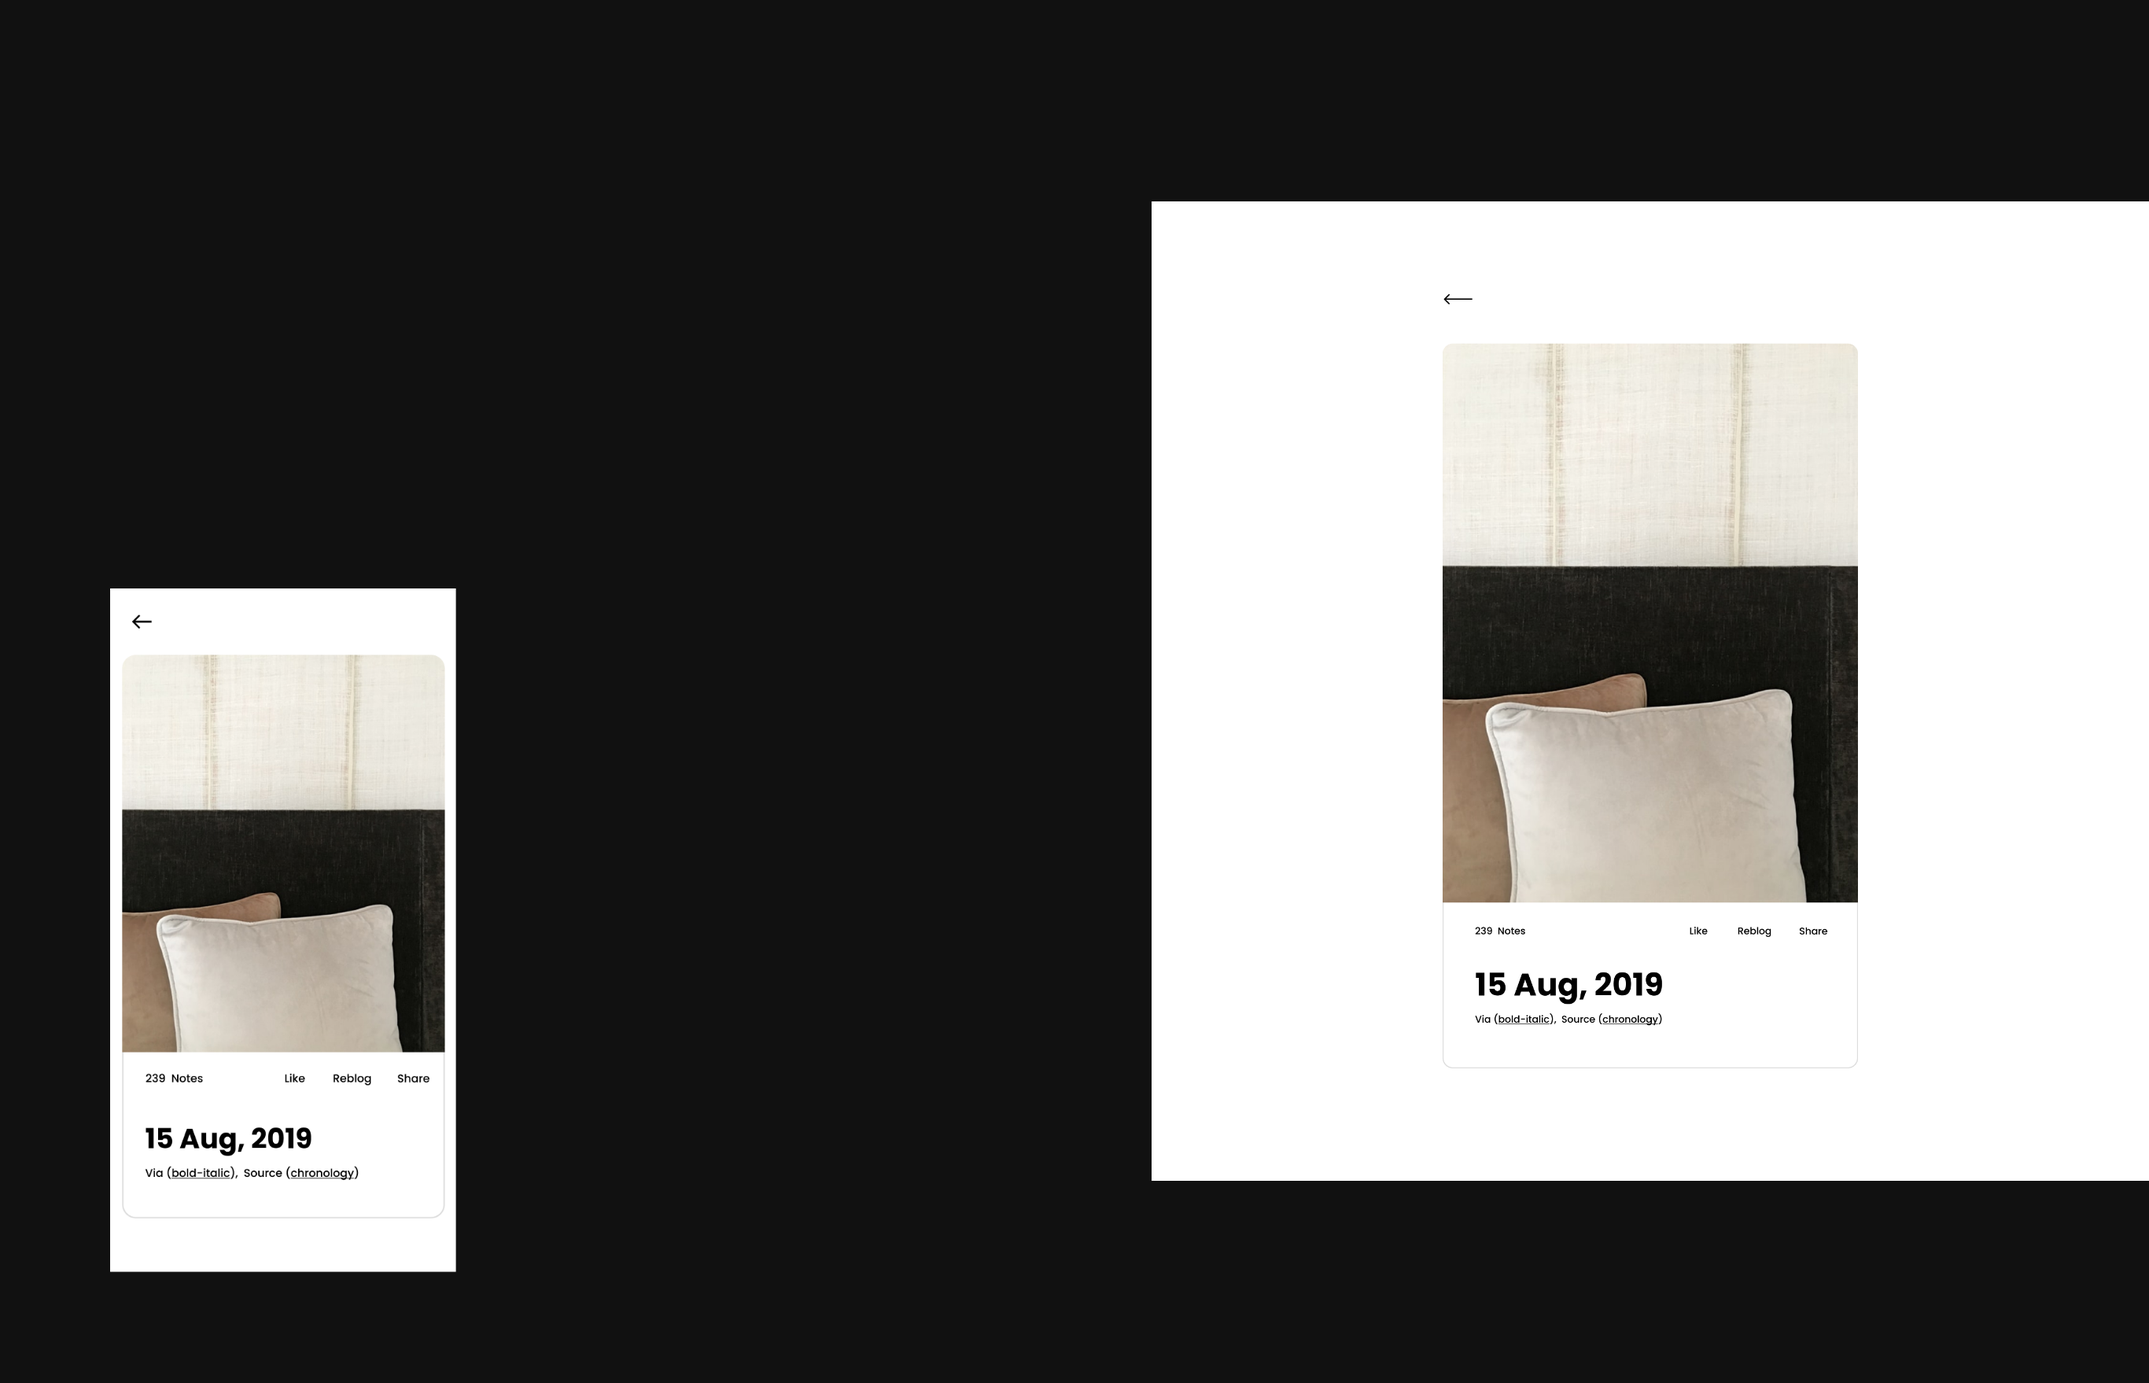
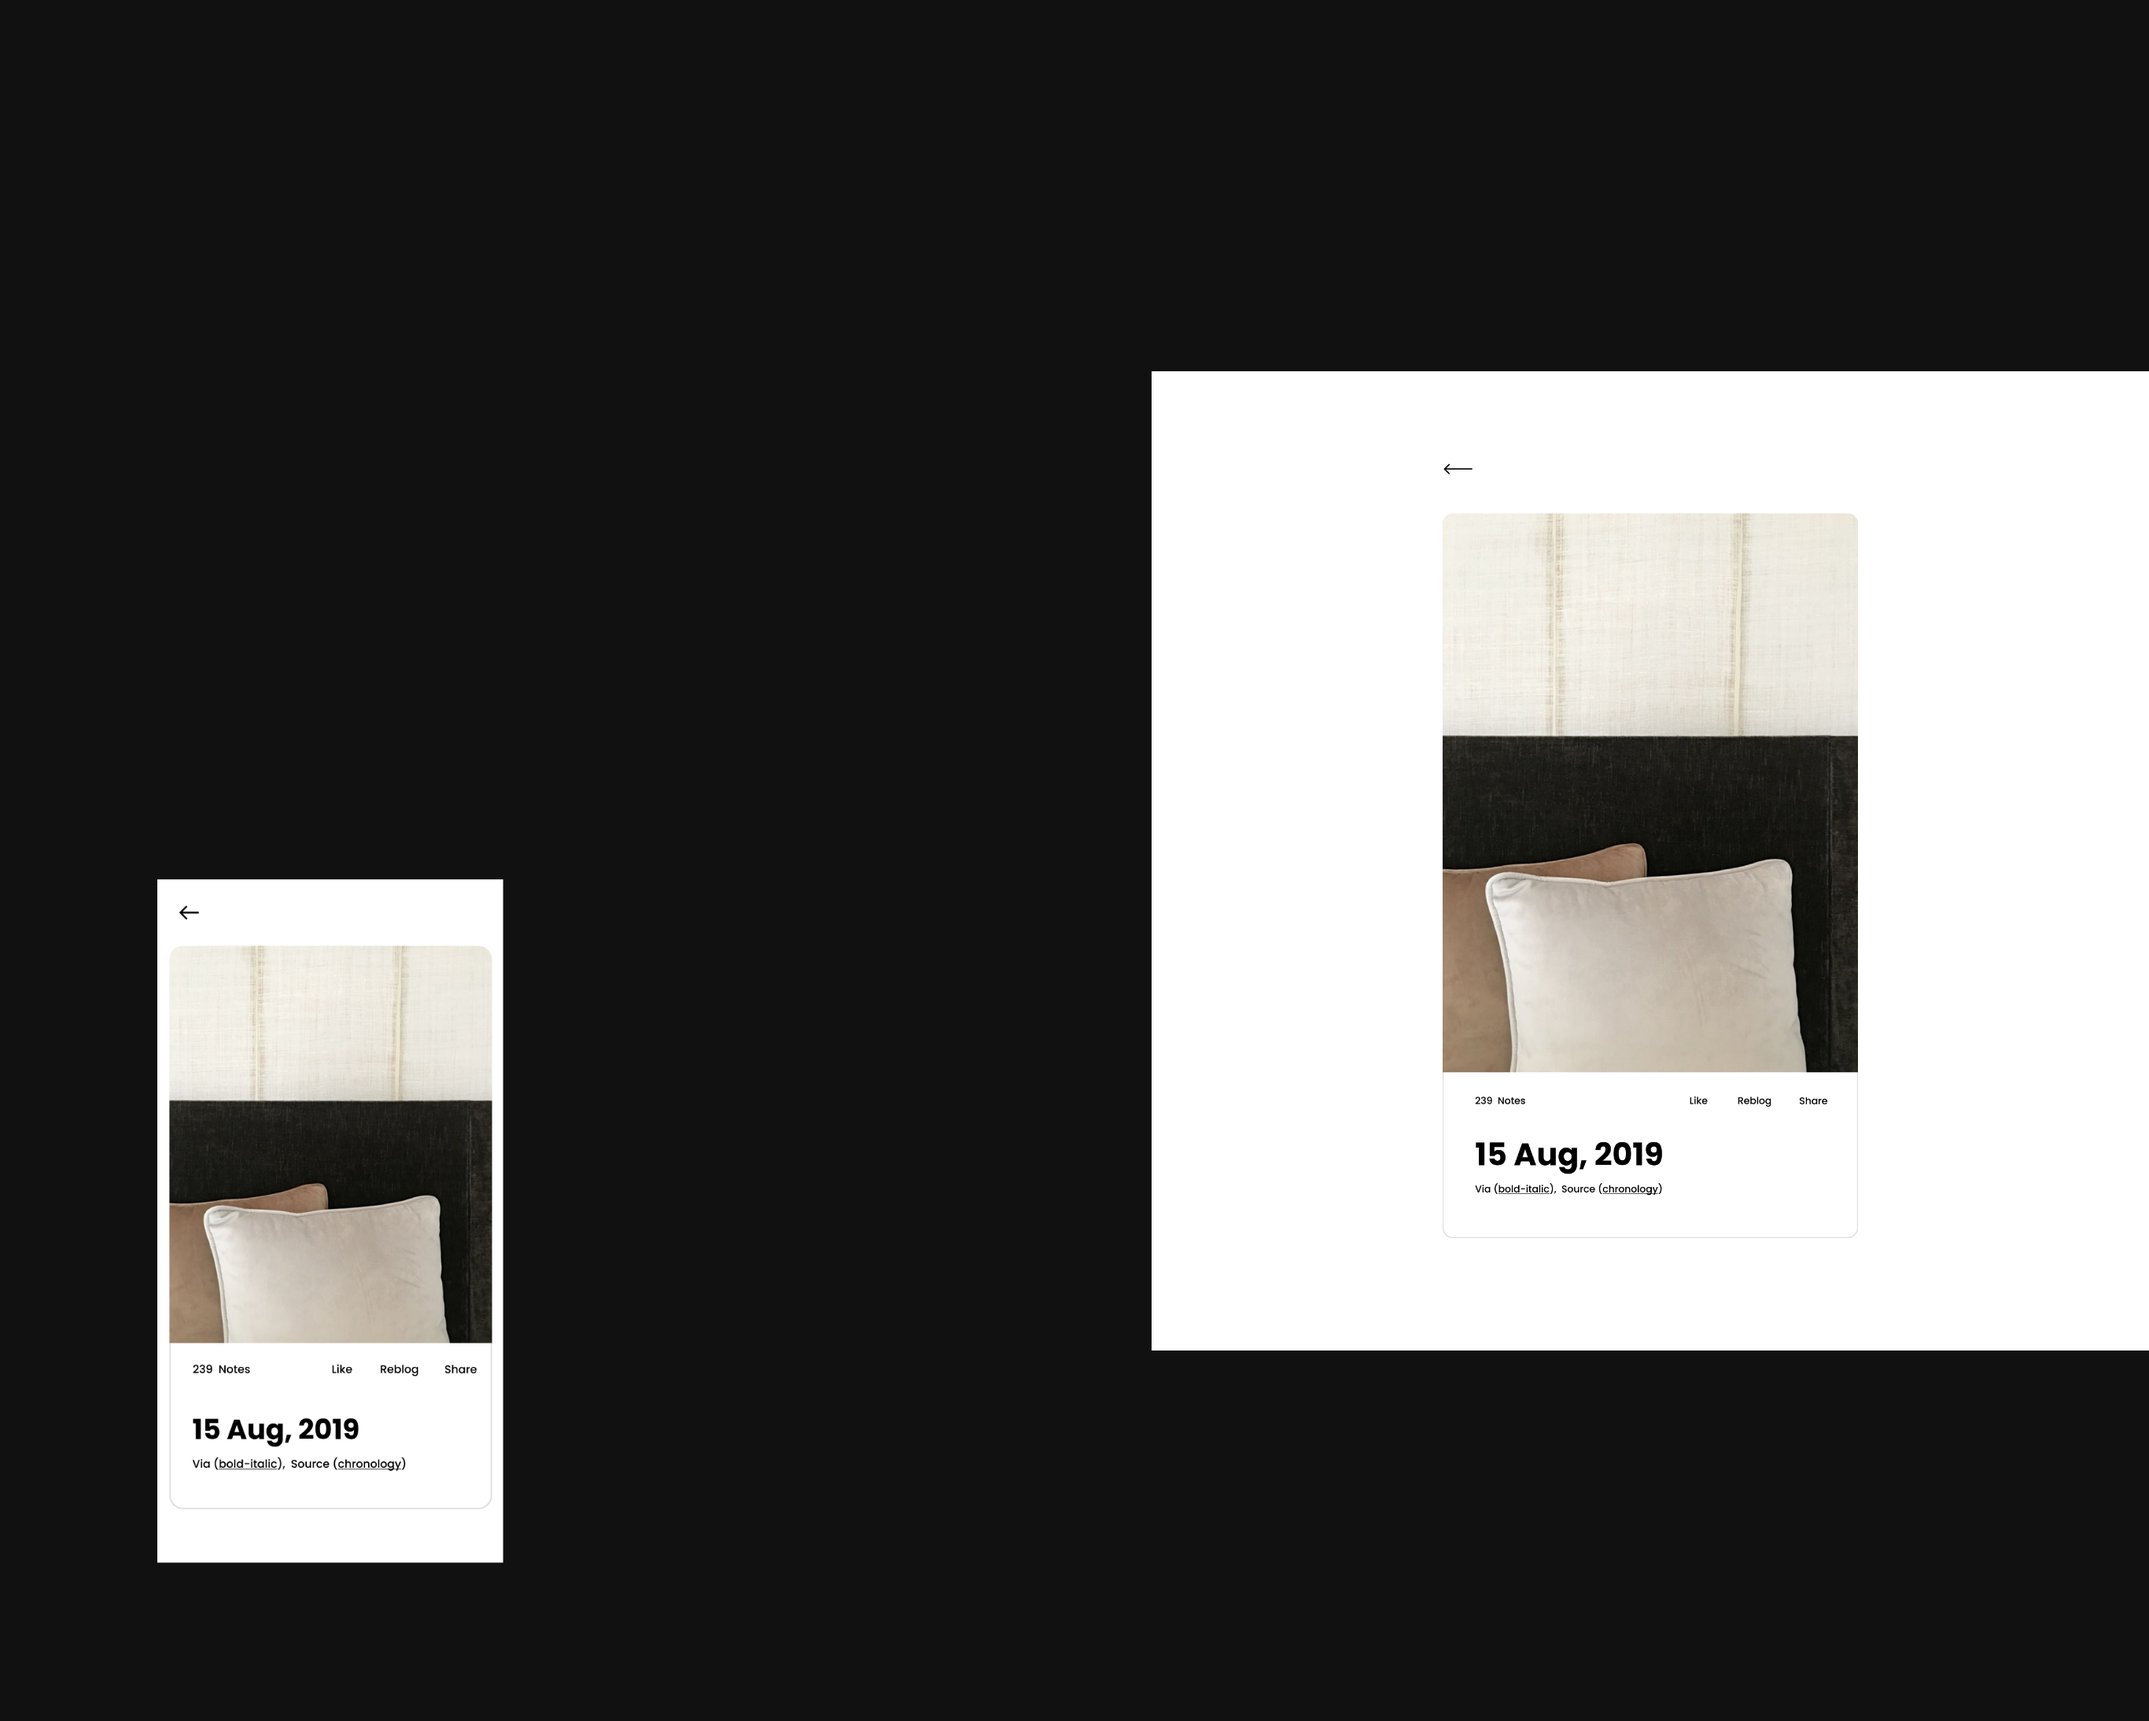
added post-3 and mobile ui

diff --git a/src/pages/portfolio/{markdownRemark.frontmatter__slug}.jsx b/src/pages/portfolio/{markdownRemark.frontmatter__slug}.jsx
@@ -32,15 +32,29 @@ export default function BlogPostTemplate({
           {/* <p className="serif text-[28px] text-[#CDDE91] font-light pb-[50px] font-bold uppercase">
             {frontmatter.title}
           </p> */}
-          <p className="monospace text-[12px] uppercase">About The Project</p>
-          <p className="text-[28px] font-light pt-[30px]">
-            {frontmatter.description}
+          <p className="text-[28px] font-light">{frontmatter.description}</p>
+
+          {/* Roles */}
+          <p className="monospace mt-[40px] mb-[10px] text-[#CDDE91] text-[11px] uppercase">
+            Contributions
           </p>
-          <p className="mt-[40px] text-[12px] uppercase">
-            {frontmatter.involvements.map((item) => (
-              <a key={item.role} className="mr-[16px]">
+          <p className=" text-[12px] uppercase">
+            {frontmatter.contributions.map((item) => (
+              <b key={item.role} className="mr-[16px]">
                 {item.role}
-              </a>
+              </b>
+            ))}
+          </p>
+
+          {/* Tools */}
+          <p className="monospace mt-[40px] mb-[10px] text-[#CDDE91] text-[11px] uppercase">
+            Tools and technologies
+          </p>
+          <p className=" text-[12px] uppercase">
+            {frontmatter.technologies.map((item) => (
+              <b key={item.tool} className="mr-[16px]">
+                {item.tool}
+              </b>
             ))}
           </p>
         </div>
@@ -54,9 +68,9 @@ export default function BlogPostTemplate({
       </span>
 
       {/* Screenshots */}
-      <div className="bg-white text-black rounded-t-[40px] pt-[100px]">
+      <div className="text-black rounded-t-[40px] py-[0px] lg:py-[50px]">
         {frontmatter.featuredImages.map((item) => (
-          <img src={item.image.publicURL} />
+          <img id="shot" src={item.image.publicURL} />
         ))}
       </div>
 
@@ -74,8 +88,11 @@ export const pageQuery = graphql`
         slug
         title
         description
-        involvements {
+        contributions {
           role
+        }
+        technologies {
+          tool
         }
         featuredImages {
           image {

diff --git a/src/pages/home.js b/src/pages/home.js
@@ -28,11 +28,11 @@ const HomePage = () => {
         {/* Portfolio One */}
         <Link to="/portfolio/one">
           <div className="grid lg:grid-cols-2 border-y border-[#bbb] lg:px-[100px] px-[40px] hover:bg-gradient-to-r from-white to-[#CDDE90]">
-            <p className="flex text-[40px] uppercase py-[70px]">
+            <p className="flex text-[30px] lg:text-[40px] uppercase py-[50px] lg:py-[70px]">
               <b>Daily UI</b>
               <i className="serif ml-[10px] mt-[-2.5px]">Challenges</i>
             </p>
-            <p className="flex items-center justify-end monospace text-[12px] font-bold uppercase">
+            <p className="hidden lg:block flex items-center justify-end monospace text-[12px] font-bold uppercase">
               Read more ➚
             </p>
           </div>
@@ -40,10 +40,22 @@ const HomePage = () => {
         {/* Portfolio Two */}
         <Link to="/portfolio/two">
           <div className="grid lg:grid-cols-2 border-y border-[#bbb] lg:px-[100px] px-[40px] hover:bg-gradient-to-r from-white to-[#CDDE90]">
-            <p className="flex text-[40px] uppercase py-[70px]">
+            <p className="flex text-[30px] lg:text-[40px] uppercase py-[50px] lg:py-[70px]">
               <b>Beige</b>
             </p>
-            <p className="flex items-center justify-end monospace text-[12px] font-bold uppercase">
+            <p className="hidden lg:block flex items-center justify-end monospace text-[12px] font-bold uppercase">
+              Read more ➚
+            </p>
+          </div>
+        </Link>
+        {/* Portfolio Three */}
+        <Link to="/portfolio/three">
+          <div className="grid lg:grid-cols-2 border-y border-[#bbb] lg:px-[100px] px-[40px] hover:bg-gradient-to-r from-white to-[#CDDE90]">
+            <p className="flex text-[30px] lg:text-[40px] uppercase py-[50px] lg:py-[70px]">
+              <b>Boxy</b>
+              <i className="serif ml-[10px] mt-[-2.5px]">Shapes</i>
+            </p>
+            <p className="hidden lg:block flex items-center justify-end monospace text-[12px] font-bold uppercase">
               Read more ➚
             </p>
           </div>

diff --git a/src/pages/about.js b/src/pages/about.js
@@ -78,7 +78,7 @@ const AboutPage = () => {
         </p>
         {/* Skill 1 */}
         <div className="grid lg:grid-cols-12 border-y-2 py-[50px]">
-          <p className="flex col-span-8 text-[30px] py-[50px] font-semibold">
+          <p className="flex col-span-8 text-[30px] pb-[20px] lg:py-[50px] font-semibold">
             Front End Development
           </p>
           <p className="flex col-span-4 items-center justify-end text-[16px] leading-[24px]">

diff --git a/src/styles/global.css b/src/styles/global.css
@@ -23,3 +23,7 @@ body {
 a:hover {
   text-decoration: underline;
 }
+
+#shot:nth-child(1) {
+  border-radius: 50px 50px 0px 0px;
+}

diff --git a/src/content/post-2.md b/src/content/post-2.md
@@ -4,8 +4,13 @@ date: "2022-11-24"
 title: "Beige"
 description: "Beige is a collaborative work between myself and Tumblr theme developer. I was proposed to work on the interface design for both desktop and mobile previews for this project. We settled on a minimal theme to gives off a youthful and modern look.
 "
-involvements:
-  - role: UI/UX Design
+contributions:
+  - role: Responsive UI Design
+
+technologies:
+  - tool: Figma
+  - tool: Tumblr
+
 featuredImages:
   - image: images/beige-1.png
   - image: images/beige-2.png

diff --git a/src/content/post-1.md b/src/content/post-1.md
@@ -2,9 +2,14 @@
 slug: "/one"
 title: "Daily UI Challenges"
 description: "Daily UI is a series of daily design challenges for website and mobile interface. Once signed up, a series of emails prompting various user interface themes were sent out daily, for 100 days. So, here are the challenges I have finished for the first 10 days."
-involvements:
+
+contributions:
   - role: Conceptual Design
   - role: UI Design
+
+technologies:
+  - tool: Adobe XD
+
 featuredImages:
   - image: images/dui-1.png
   - image: images/dui-2.png

diff --git a/src/content/post-3.md b/src/content/post-3.md
@@ -1,0 +1,22 @@
+---
+slug: "/three"
+date: "2022-11-24"
+title: "BoxyShapes"
+description: "BoxyShapes is bla bla bla.
+"
+contributions:
+  - role: UI/UX Design
+  - role: Front End Development
+  - role: AR Development
+
+technologies:
+  - tool: Figma
+  - tool: Unity Engine
+  - tool: Vuforia 
+
+featuredImages:
+  - image: images/boxyshapes-1.png
+  - image: images/boxyshapes-2.png
+  - image: images/boxyshapes-3.png
+  - image: images/boxyshapes-4.png
+---
